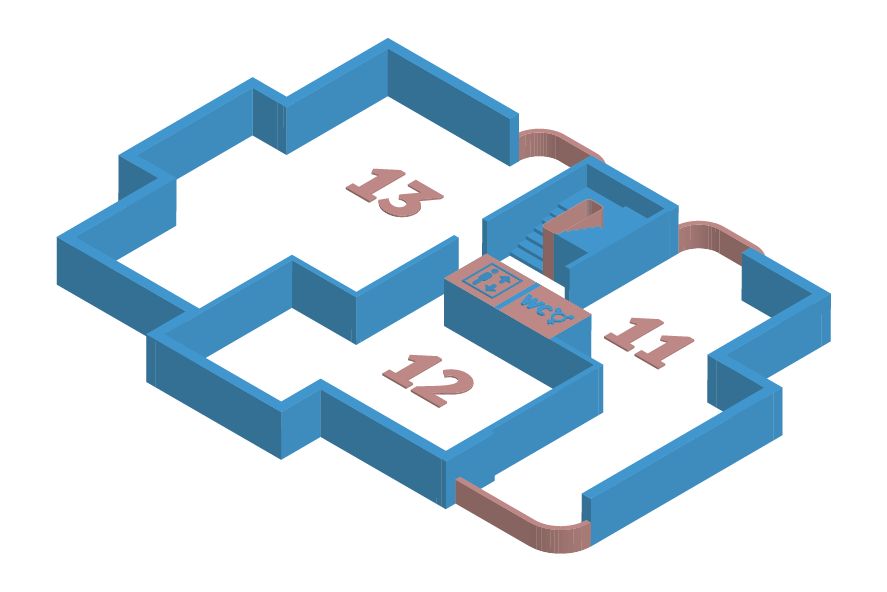
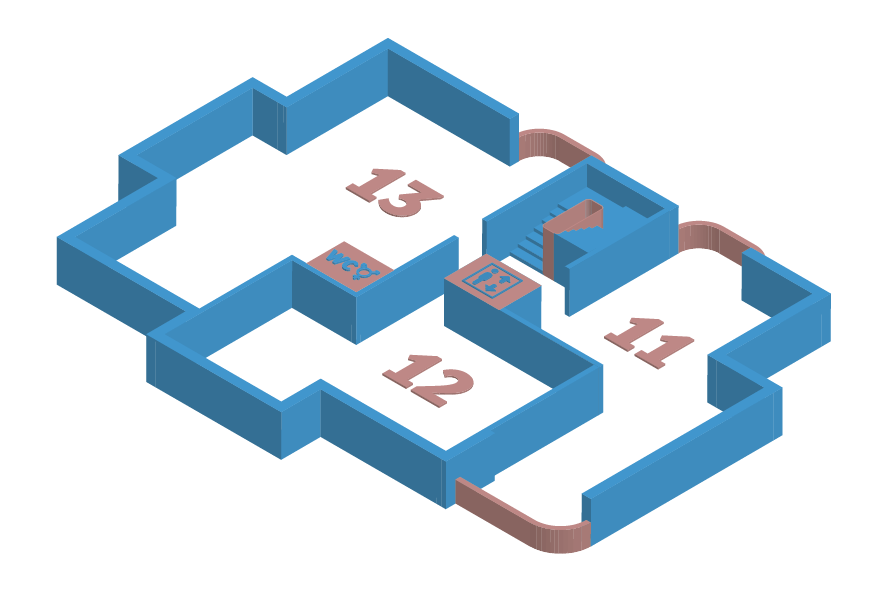
change in toilette 1er, + tami teyxte update

Changed region(s): [[0.5479, 0.4865, 0.6697, 0.6081], [0.3348, 0.3953, 0.4566, 0.4865]]

diff --git a/_artistes/p20.html b/_artistes/p20.html
@@ -5,8 +5,10 @@ fiche: files/projets/P20
 name: Tami Hopf
 portrait: "<p>Artiste pluridisciplinaire, diplômée en communication visuelle et direction artistique, Tami Hopf est originaire de São Paulo. Après avoir travaillé dans plusieurs agences et studios de design au Brésil, en Australie et en Suisse, elle est désormais basée à Vevey. Depuis son arrivé sur le territoire helvétique, elle a été mandatée pour divers projets artistiques, notamment par la Ville de Vevey, la Ville de Genève, l’Ambassade du Brésil à Londres, Paratissima Contemporary Art Festival à Lisbonne. Passionnée d’illustration, elle décide en 2015 de se consacrer entièrement à son art en développant un style visuel singulier entre rêverie et mélancolie, rempli d’infimes petits points caractéristiques de son travail méticuleux et détaillé. </p>"
 nomprojet: "Couleur «&#8239absence&#8239»"
-projet: "<p>La fresque propose une réflexion sur les traces émotionnelles et/ou physiques laissées par le départ ou l’absence de quelqu’un. Le vide profond qu’une personne peut créer à son départ aurait-il une couleur ou une forme précise ? Laisserait-elle des traces ? Son départ est-il capable de marquer physiquement, ou les marques sont-elles purement émotionnelles ? Considérant que la fin de quelque chose est potentiellement le début d’une autre, existerait-il une autre manière de traiter cette absence ?</p>
-<p>La fresque raconte l’histoire d’un personnage qui part sans destin, un voyageur·euse qui porte sur son dos bien plus qu’une valise. Les traces laissées par son absence seront représentées par différents tons de noir, des formes, des jeux d’ombres et d’optique, invitant les passant·e·s à interpréter par eux-mêmes le sens (positif, négatif ou nostalgique ?) des traces laissées.</p>"
+projet: "<p>«&#8239La fresque propose une réflexion sur les traces émotionnelles ou physiques
+        laissées par l’absence de quelqu’un ou quelque chose. L’arrivée de cette œuvre dans le champ de vision des voyageurs de trains crée le début d’une intrigue :
+        une routine bouleversée par un changement visuel plus ou moins important ou imposant… Son côté éphémère évoque les traces restantes dans nos mémoires lorsque quelqu’un quitte un lieu de vie, perd un voisin proche… Lorsque la vie change, le temps passe…</p>
+<p>Le dessin rappelle les souvenirs que l’on emmène lors d’un déménagement, le quotidien que l’on s’imagine lors d’un emménagement. Tout se passe dans la tête, d’où le village caché dans ses cheveux côtoyant quelques bâtiments fantômes, rappelant les maisons déjà détruites ou les lieux qu’on n’a pas encore habité. Une porte s’ouvre à l’arrière sur le torse du personnage laissant penser que le corps n’est lui aussi qu’un lieu de passage. Abrité parce corps le temps d’une vie, l’esprit laisse passer les idées, les sentiments ainsi que des traces. C’est là qu’une partie du collectif a pris place en attachant à l’extérieur du bâtiment, des fragments de l’esprit d’œuvres visibles à l’intérieur, indiquant ainsi le chemin du souvenir.&#8239»</p>"
 demarche: "Posca, pinceaux, rouleaux, peinture noire, blanche et dorée"
 lieux: "Façade côté gare"
 ---

diff --git a/_includes/1er.html b/_includes/1er.html
@@ -16,9 +16,6 @@
         <p>Clélia Vuille, Marion Geisler</p>
     </a>
 
-    <img class="picto--small picto--background img-responsive mrgt" src="{{ '/files/picto/wc.png' | absolute_url }}">
-
-
     <p class="title uppercase text-white "><span class="boxed">12</span></p>
     <a href="{{ '/artistes/P15.html' | absolute_url }}">
         <p class="title uppercase boxed text-alt">Kapital I</p>
@@ -38,5 +35,8 @@
         <p class="title uppercase boxed text-alt">Cycle</p>
         <p>Gionibek Kudaibergen</p>
     </a>
+
+    <img class="picto--small picto--background img-responsive mrgt" src="{{ '/files/picto/wc.png' | absolute_url }}">
+
 </div>
 <!-- 1er -->
